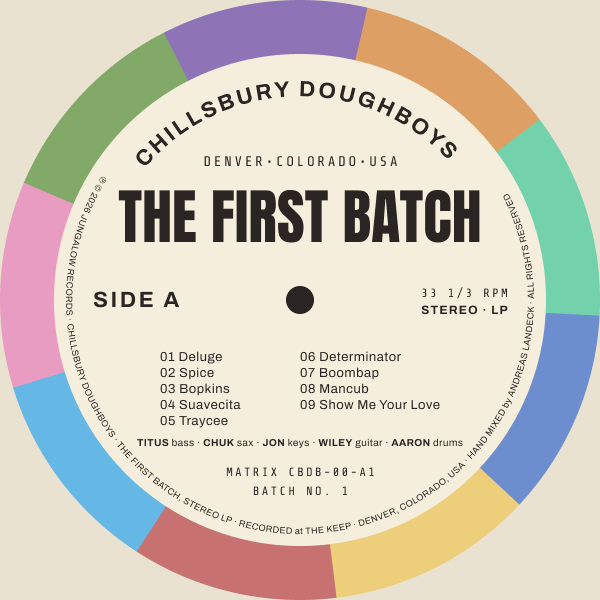
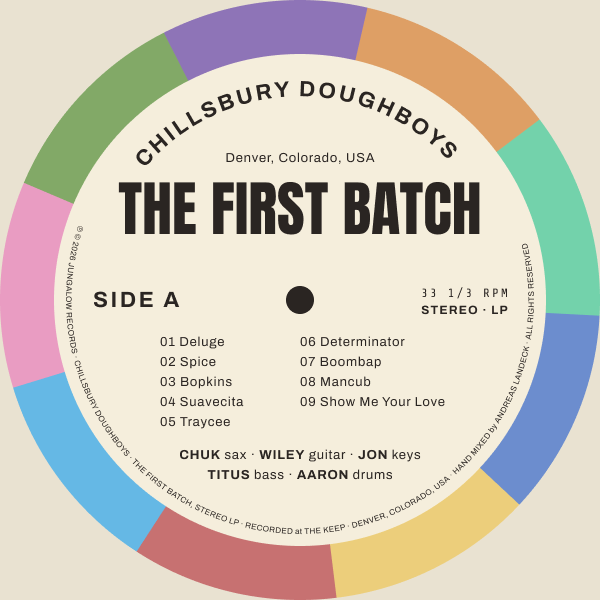
Album cover: label fine print arc recentered at Josh's 8 pt
Claude-Session: https://claude.ai/code/session_01DZoTcMKk7gLiki2BgzriT4

diff --git a/the-first-batch/docs/lessons.md b/the-first-batch/docs/lessons.md
@@ -106,3 +106,4 @@ Newest at the bottom of each section. Add a dated line when something fails or s
 - Nov 8 2026 · Album cover round 2. The brand pinwheel drawn in code and passed as a second image held its order and angles on all three record edits and on two of three nine slice frames (one Blueberry wedge drifted to lavender). Text described color bands (cassettes, striped sweep) kept the order but pushed Cherry and Tangerine louder than the 500 steps: redraw flat color fields in code at finish rather than trusting the generator. The record label went loud orange on every edit. A top down vat still darkens the corners and still leaves some pieces lying on top. Type tests: a paper label carries its own background, so it held on every image; plain ink type got lost on busy grids and dark trays.
 - Nov 8 2026 · `appendChild` returns nothing in use_figma scripts, so `const t = parent.appendChild(text(...))` is null. Create the node, append it, keep the original reference.
 - Nov 8 2026 · `figma.createTextPath` moves the new text path onto the page, even when its vector sat inside a component. Read its x and y, append it back to the parent, set x and y again. To center curved text, measure the string as a plain text node first and build the arc to that length.
+- Nov 8 2026 · A Figma text path will not rotate with the rotation property, and changing its font size shifts the text off center along the path. Recenter by rebuilding the arc to the measured text length, keeping the node's own font, size and spacing.
